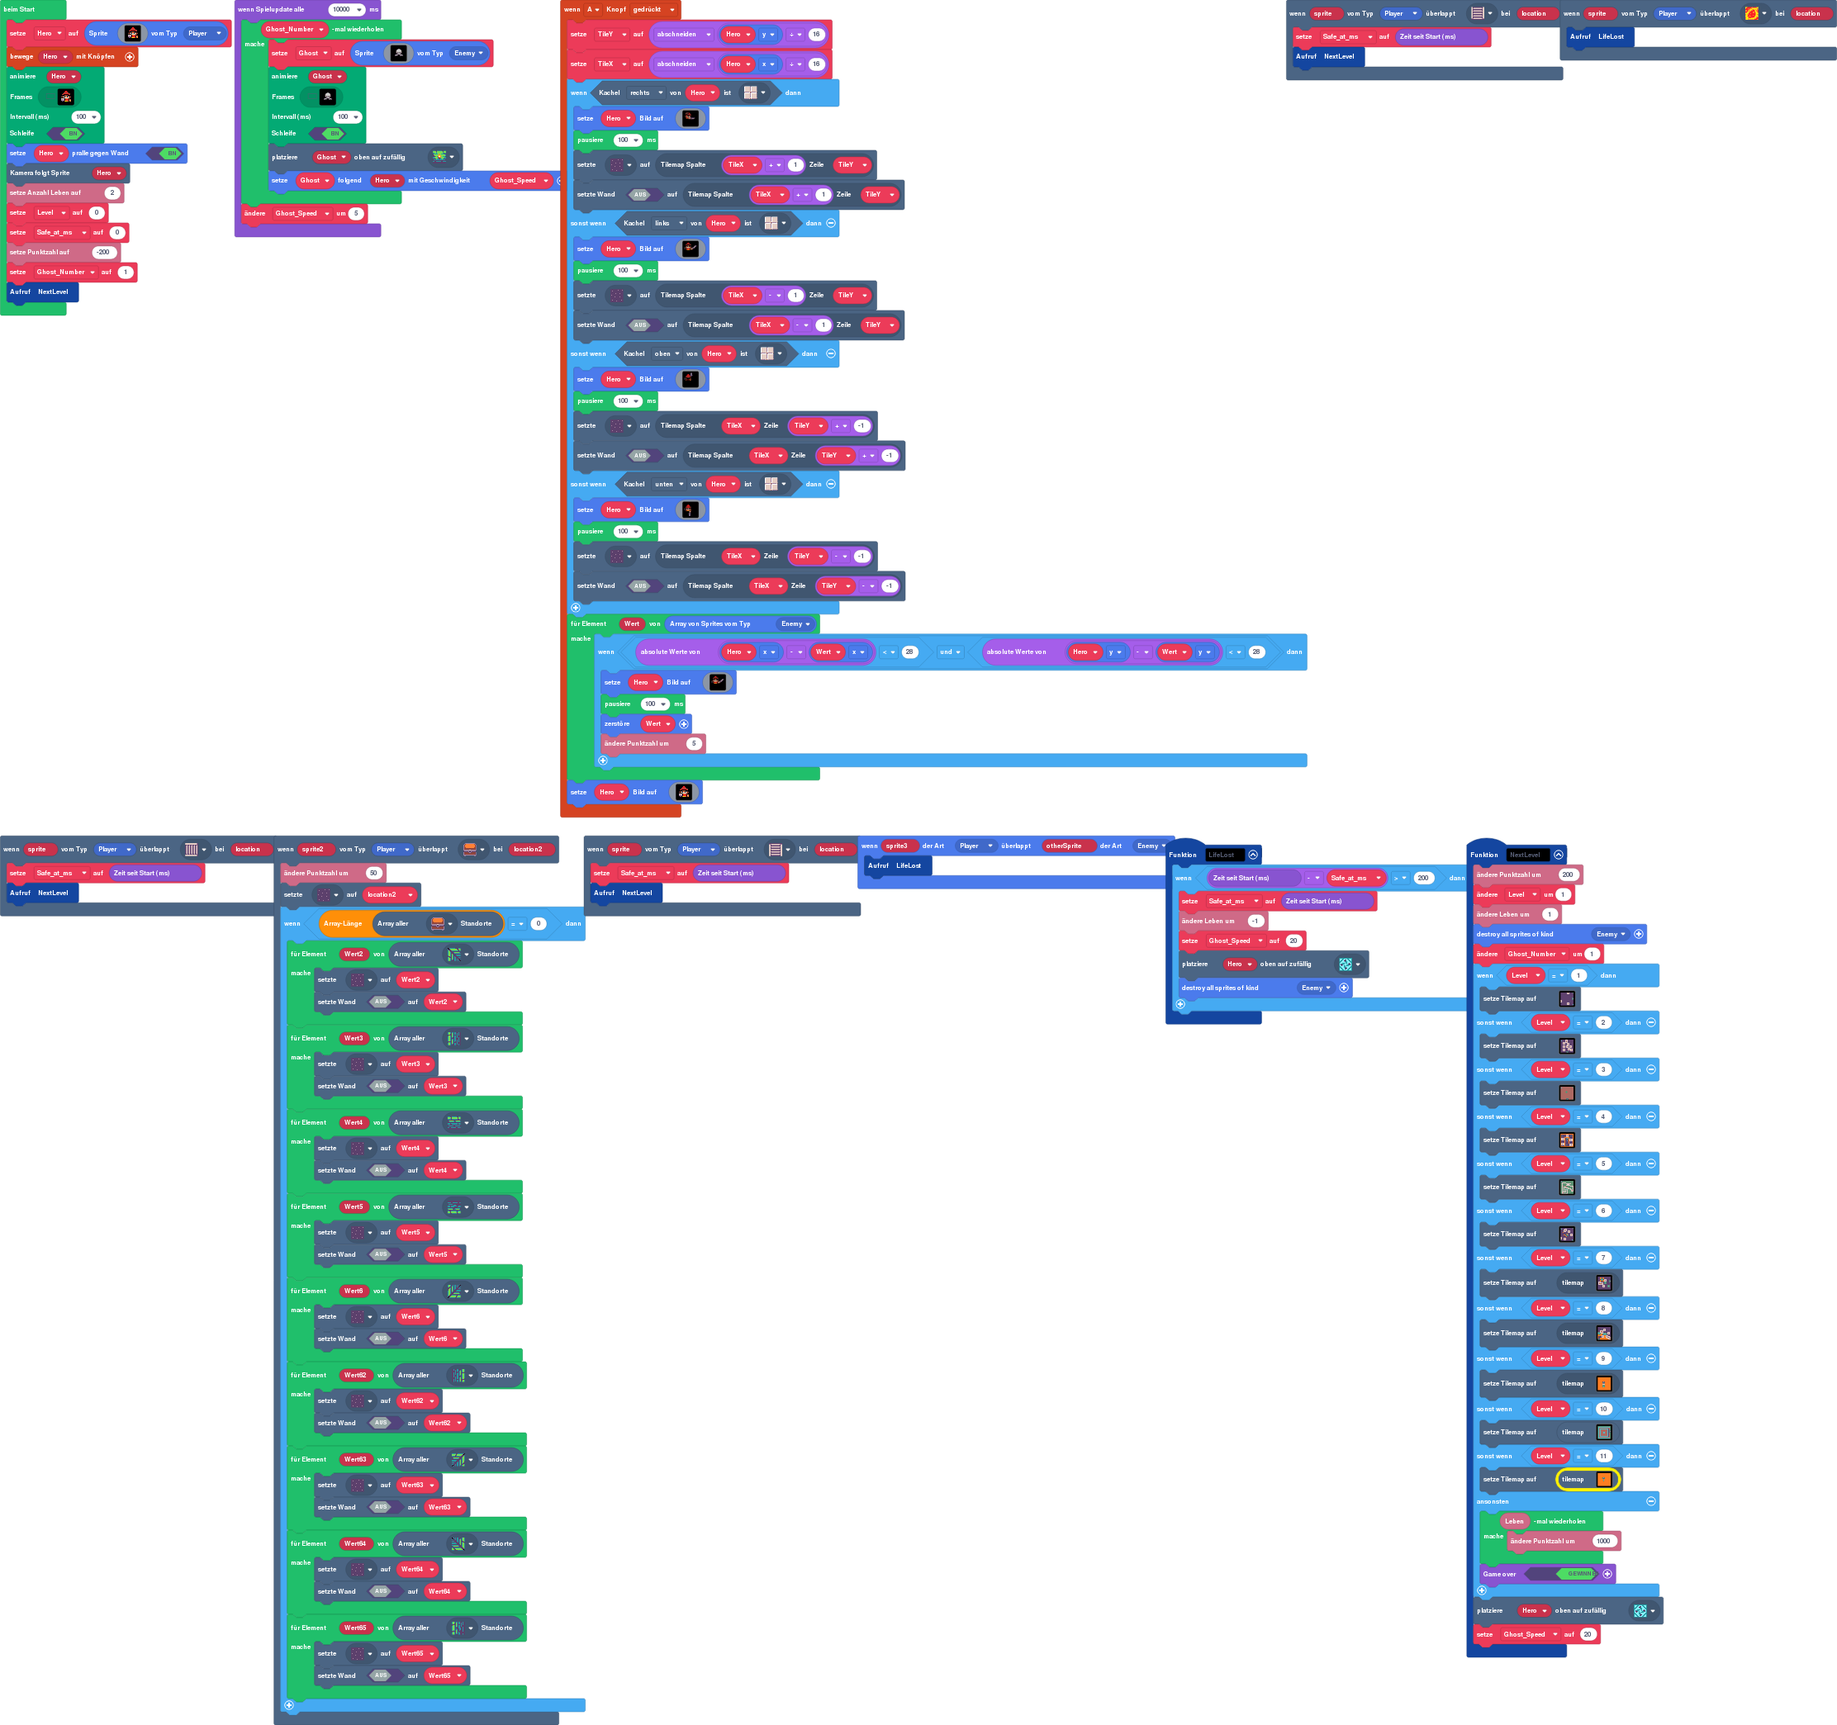
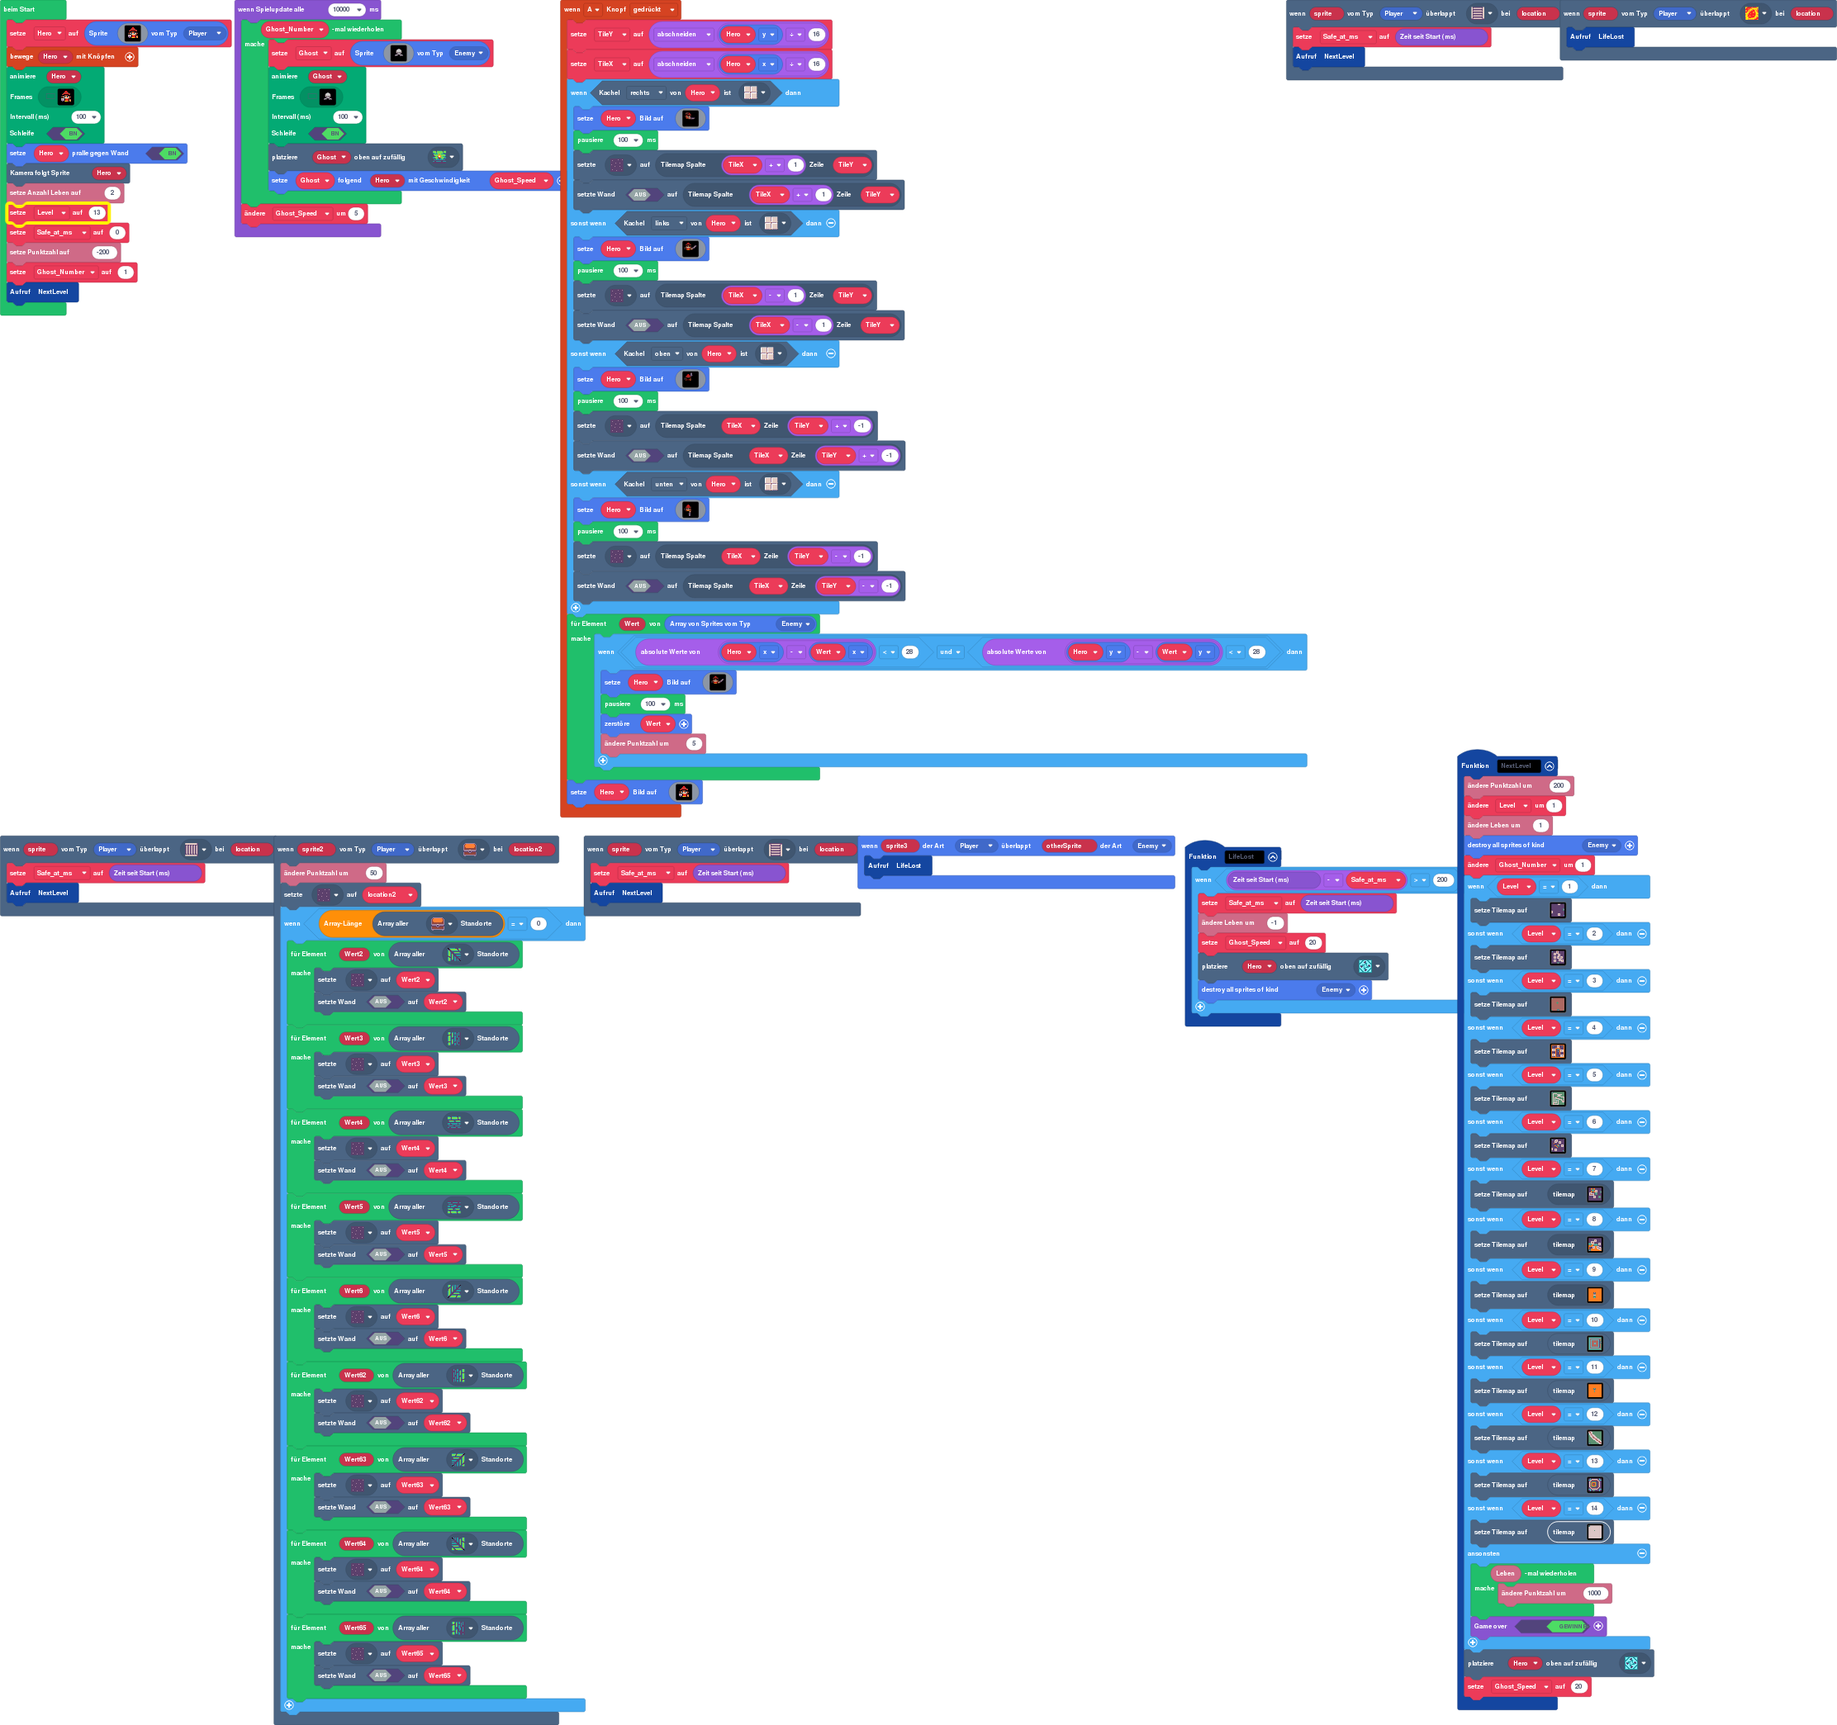
Aktualisiere main.blocks, main.ts, tilemap.g.jres, tilemap.g.ts

Changed region(s): [[0.6205, 0.4356, 0.8997, 0.9957]]

diff --git a/tilemap.g.ts b/tilemap.g.ts
@@ -121,44 +121,6 @@ namespace myTiles {
 . . . . . . . . . . . 2 2 2 2 . 
 . . . . . . . . . . . . . . . . 
 `, [myTiles.transparency16,myTiles.tile1,sprites.dungeon.darkGroundCenter,sprites.dungeon.collectibleInsignia,sprites.dungeon.greenOuterSouth0,sprites.dungeon.greenOuterSouthEast,sprites.dungeon.greenOuterSouthWest,sprites.dungeon.greenOuterWest1,sprites.dungeon.greenOuterEast0,sprites.dungeon.chestClosed,sprites.dungeon.greenOuterNorth2,sprites.dungeon.stairSouth,sprites.dungeon.hazardLava0], TileScale.Sixteen);
-            case "Level9":
-            case "Level9":return tiles.createTilemap(hex`1000100000000000000000000000000000000000000000000000000000000000000000000000000000000000000000000000000000000000000000000000000000000000000000000000000000000000000000000000000000000000000000000000000000000000000000000000000000000000000000000000000000000000000000000000000000000000000000000000000000000000000000000000000000000000000000000000000000000000000000000000000000000000000000000000000000000000000000000000000000000000000000000000000000000000000000000000000000000000000000000000000000000000000000000000000000000000`, img`
-. . . . . . . . . . . . . . . . 
-. . . . . . . . . . . . . . . . 
-. . . . . . . . . . . . . . . . 
-. . . . . . . . . . . . . . . . 
-. . . . . . . . . . . . . . . . 
-. . . . . . . . . . . . . . . . 
-. . . . . . . . . . . . . . . . 
-. . . . . . . . . . . . . . . . 
-. . . . . . . . . . . . . . . . 
-. . . . . . . . . . . . . . . . 
-. . . . . . . . . . . . . . . . 
-. . . . . . . . . . . . . . . . 
-. . . . . . . . . . . . . . . . 
-. . . . . . . . . . . . . . . . 
-. . . . . . . . . . . . . . . . 
-. . . . . . . . . . . . . . . . 
-`, [myTiles.transparency16], TileScale.Sixteen);
-            case "Level10":
-            case "Level10":return tiles.createTilemap(hex`1000100000000000000000000000000000000000000000000000000000000000000000000000000000000000000000000000000000000000000000000000000000000000000000000000000000000000000000000000000000000000000000000000000000000000000000000000000000000000000000000000000000000000000000000000000000000000000000000000000000000000000000000000000000000000000000000000000000000000000000000000000000000000000000000000000000000000000000000000000000000000000000000000000000000000000000000000000000000000000000000000000000000000000000000000000000000000`, img`
-. . . . . . . . . . . . . . . . 
-. . . . . . . . . . . . . . . . 
-. . . . . . . . . . . . . . . . 
-. . . . . . . . . . . . . . . . 
-. . . . . . . . . . . . . . . . 
-. . . . . . . . . . . . . . . . 
-. . . . . . . . . . . . . . . . 
-. . . . . . . . . . . . . . . . 
-. . . . . . . . . . . . . . . . 
-. . . . . . . . . . . . . . . . 
-. . . . . . . . . . . . . . . . 
-. . . . . . . . . . . . . . . . 
-. . . . . . . . . . . . . . . . 
-. . . . . . . . . . . . . . . . 
-. . . . . . . . . . . . . . . . 
-. . . . . . . . . . . . . . . . 
-`, [myTiles.transparency16], TileScale.Sixteen);
             case "Level11":
             case "Level11":return tiles.createTilemap(hex`1000100000000000000000000000000000000000000000000000000000000000000000000000000000000000000000000000000000000000000000000000000000000000000000000000000000000000000000000000000000000000000000000000000000000000000000000000000000000000000000000000000000000000000000000000000000000000000000000000000000000000000000000000000000000000000000000000000000000000000000000000000000000000000000000000000000000000000000000000000000000000000000000000000000000000000000000000000000000000000000000000000000000000000000000000000000000000`, img`
 . . . . . . . . . . . . . . . . 
@@ -311,25 +273,6 @@ namespace myTiles {
 . . . . . . . . . . . . . . . . 
 . . . . . . . . . . . . . . . . 
 `, [myTiles.transparency16], TileScale.Sixteen);
-            case "Level_10":
[1 lines of base64/hex data omitted]
-. . . . . . . . . . . . . . . . 
-. . . . . . . . . . . . . . . . 
-. . . . . . . . . . . . . . . . 
-. . . . . . . . . . . . . . . . 
-. . . . . . . . . . . . . . . . 
-. . . . . . . . . . . . . . 2 2 
-. . . . . . . . . . . . . . 2 . 
-. . . . . . . . . . . . . . 2 2 
-. . . . . . . . . . . . . . . . 
-. . . . . . . . . . . . . . . . 
-. . . . . . . . . . . . . . . . 
-. . . . . . . . . . . . . . . . 
-. . . . . . . . . . . . . . . . 
-. . . . . . . . . . . . . . . . 
-. . . . . . . . . . . . . . . . 
-. . . . . . . . . . . . . . . . 
-`, [myTiles.transparency16,sprites.dungeon.darkGroundCenter,sprites.dungeon.greenOuterNorth2,sprites.dungeon.collectibleInsignia,sprites.dungeon.chestClosed,sprites.dungeon.greenOuterWest0,sprites.dungeon.greenOuterSouthEast,sprites.dungeon.greenOuterNorthWest,sprites.dungeon.greenOuterNorth0,sprites.dungeon.greenOuterSouth1,sprites.dungeon.stairWest], TileScale.Sixteen);
             case "Level17":
             case "Level17":return tiles.createTilemap(hex`1000100000000000000000000000000000000000000000000000000000000000000000000000000000000000000000000000000000000000000000000000000000000000000000000000000000000000000000000000000000000000000000000000000000000000000000000000000000000000000000000000000000000000000000000000000000000000000000000000000000000000000000000000000000000000000000000000000000000000000000000000000000000000000000000000000000000000000000000000000000000000000000000000000000000000000000000000000000000000000000000000000000000000000000000000000000000000`, img`
 . . . . . . . . . . . . . . . . 
@@ -350,7 +293,7 @@ namespace myTiles {
 . . . . . . . . . . . . . . . . 
 `, [myTiles.transparency16], TileScale.Sixteen);
             case "Level_11":
[2 lines of base64/hex data omitted]
 . . . . . . . . . . . . . . . . 
 . . . . . . . . . . . . . . . . 
 . . . . . . . . . . . . . . . . 
@@ -367,7 +310,140 @@ namespace myTiles {
 . . . . . . . . . . . . . . . . 
 . . . . . . . . . . . . . . . . 
 . . . . . . . . . . . . . . . . 
-`, [myTiles.transparency16,sprites.dungeon.hazardLava0,sprites.dungeon.chestClosed,sprites.dungeon.collectibleInsignia,sprites.dungeon.greenOuterNorthWest,sprites.dungeon.greenOuterSouthEast,sprites.dungeon.greenOuterSouth1,sprites.dungeon.greenOuterSouthWest,sprites.dungeon.greenOuterNorthEast,sprites.dungeon.stairSouth,sprites.dungeon.greenOuterNorth2], TileScale.Sixteen);
+`, [myTiles.transparency16,sprites.dungeon.hazardLava0,sprites.dungeon.chestClosed,sprites.dungeon.collectibleInsignia,sprites.dungeon.greenOuterNorthWest,sprites.dungeon.greenOuterSouthEast,sprites.dungeon.greenOuterSouthWest,sprites.dungeon.greenOuterNorthEast,sprites.dungeon.stairSouth,sprites.dungeon.greenOuterNorth2,sprites.dungeon.greenOuterSouth0], TileScale.Sixteen);
+            case "Level18":
+            case "Level18":return tiles.createTilemap(hex`1000100000000000000000000000000000000000000000000000000000000000000000000000000000000000000000000000000000000000000000000000000000000000000000000000000000000000000000000000000000000000000000000000000000000000000000000000000000000000000000000000000000000000000000000000000000000000000000000000000000000000000000000000000000000000000000000000000000000000000000000000000000000000000000000000000000000000000000000000000000000000000000000000000000000000000000000000000000000000000000000000000000000000000000000000000000000000`, img`
+. . . . . . . . . . . . . . . . 
+. . . . . . . . . . . . . . . . 
+. . . . . . . . . . . . . . . . 
+. . . . . . . . . . . . . . . . 
+. . . . . . . . . . . . . . . . 
+. . . . . . . . . . . . . . . . 
+. . . . . . . . . . . . . . . . 
+. . . . . . . . . . . . . . . . 
+. . . . . . . . . . . . . . . . 
+. . . . . . . . . . . . . . . . 
+. . . . . . . . . . . . . . . . 
+. . . . . . . . . . . . . . . . 
+. . . . . . . . . . . . . . . . 
+. . . . . . . . . . . . . . . . 
+. . . . . . . . . . . . . . . . 
+. . . . . . . . . . . . . . . . 
+`, [myTiles.transparency16], TileScale.Sixteen);
+            case "Level_12":
[1 lines of base64/hex data omitted]
+. . 2 2 . . . . . . . . . . . . 
+2 . . 2 2 . . . . . . . . . . . 
+2 2 . 2 2 . . . . . . . . . . . 
+. 2 2 . 2 . . . . . . . . . . . 
+. 2 2 . 2 2 2 . . . . . . . . . 
+. . 2 2 . 2 2 2 . . . . . . . . 
+. . 2 2 2 . 2 2 2 . . . . . . . 
+. . . 2 2 . . 2 2 2 . . . . . . 
+. . . . 2 2 . . 2 2 2 . . . . . 
+. . . . . 2 2 2 . . 2 2 2 . . . 
+. . . . . . 2 2 2 . . 2 2 2 . . 
+. . . . . . . . 2 2 . . 2 2 2 . 
+. . . . . . . . . 2 2 2 . . 2 2 
+. . . . . . . . . . 2 2 2 . . 2 
+2 2 2 . . . . . . . . . 2 2 . . 
+2 . 2 . . . . . . . . . . 2 2 2 
+`, [myTiles.transparency16,sprites.dungeon.chestClosed,sprites.dungeon.floorLight0,sprites.dungeon.greenOuterNorth2,sprites.dungeon.stairSouth,sprites.dungeon.greenOuterNorthEast,sprites.dungeon.greenOuterEast0,sprites.dungeon.greenOuterWest0,sprites.dungeon.greenOuterNorthWest,sprites.dungeon.greenOuterNorth0,sprites.dungeon.collectibleInsignia], TileScale.Sixteen);
+            case "Level20":
+            case "Level20":return tiles.createTilemap(hex`1000100000000000000000000000000000000000000000000000000000000000000000000000000000000000000000000000000000000000000000000000000000000000000000000000000000000000000000000000000000000000000000000000000000000000000000000000000000000000000000000000000000000000000000000000000000000000000000000000000000000000000000000000000000000000000000000000000000000000000000000000000000000000000000000000000000000000000000000000000000000000000000000000000000000000000000000000000000000000000000000000000000000000000000000000000000000000`, img`
+. . . . . . . . . . . . . . . . 
+. . . . . . . . . . . . . . . . 
+. . . . . . . . . . . . . . . . 
+. . . . . . . . . . . . . . . . 
+. . . . . . . . . . . . . . . . 
+. . . . . . . . . . . . . . . . 
+. . . . . . . . . . . . . . . . 
+. . . . . . . . . . . . . . . . 
+. . . . . . . . . . . . . . . . 
+. . . . . . . . . . . . . . . . 
+. . . . . . . . . . . . . . . . 
+. . . . . . . . . . . . . . . . 
+. . . . . . . . . . . . . . . . 
+. . . . . . . . . . . . . . . . 
+. . . . . . . . . . . . . . . . 
+. . . . . . . . . . . . . . . . 
+`, [myTiles.transparency16], TileScale.Sixteen);
+            case "Level_13":
[1 lines of base64/hex data omitted]
+. . . . . . . . . . . . . . . . 
+. . . . 2 2 2 2 2 2 2 . . . . . 
+. . . 2 . . . . . . . 2 . . . . 
+. . 2 . . . . . . . . . 2 . . . 
+. 2 . . . . . . . . . . . 2 . . 
+. 2 . . . . . . . . . . . 2 . . 
+. 2 . . . . . . . . . . . 2 . . 
+. 2 . . . . . . . . . . . 2 . . 
+. 2 . . . . . . . . . . . 2 . . 
+. 2 . . . . . . . . . . . 2 . . 
+. 2 . . . . . . . . . . . 2 . . 
+. . 2 . . . . . . . . . 2 . . . 
+. . . 2 . . . . . . . 2 . . . . 
+. . . . 2 2 2 2 2 2 2 . . . . . 
+. . . . . 2 2 2 . . . . . . . . 
+. . . . . 2 . 2 . . . . . . . . 
+`, [myTiles.transparency16,sprites.dungeon.darkGroundCenter,sprites.dungeon.collectibleInsignia,sprites.dungeon.chestClosed,sprites.dungeon.floorLight0,sprites.dungeon.greenOuterNorth2,sprites.dungeon.hazardLava0,sprites.dungeon.greenOuterNorthWest,sprites.dungeon.greenOuterNorth0,sprites.dungeon.greenOuterNorthEast,sprites.dungeon.greenOuterEast0,sprites.dungeon.greenOuterWest0,sprites.dungeon.stairSouth], TileScale.Sixteen);
+            case "Level_10":
[1 lines of base64/hex data omitted]
+. . . . . . . . . . . . . . . . 
+. . . . . . . . . . . . . . . . 
+. . . . . . . . . . . . . . . . 
+. . . . . . . . . . . . . . . . 
+. . . . . . . . . . . . . . . . 
+. . . . . . . . . . . . . . 2 2 
+. . . . . . . . . . . . . . 2 . 
+. . . . . . . . . . . . . . 2 2 
+. . . . . . . . . . . . . . . . 
+. . . . . . . . . . . . . . . . 
+. . . . . . . . . . . . . . . . 
+. . . . . . . . . . . . . . . . 
+. . . . . . . . . . . . . . . . 
+. . . . . . . . . . . . . . . . 
+. . . . . . . . . . . . . . . . 
+. . . . . . . . . . . . . . . . 
+`, [myTiles.transparency16,sprites.dungeon.darkGroundCenter,sprites.dungeon.greenOuterNorth2,sprites.dungeon.collectibleInsignia,sprites.dungeon.chestClosed,sprites.dungeon.greenOuterWest0,sprites.dungeon.greenOuterSouthEast,sprites.dungeon.greenOuterNorthWest,sprites.dungeon.greenOuterNorth0,sprites.dungeon.stairWest,sprites.dungeon.greenOuterSouth0], TileScale.Sixteen);
+            case "Level21":
+            case "Level21":return tiles.createTilemap(hex`1000100000000000000000000000000000000000000000000000000000000000000000000000000000000000000000000000000000000000000000000000000000000000000000000000000000000000000000000000000000000000000000000000000000000000000000000000000000000000000000000000000000000000000000000000000000000000000000000000000000000000000000000000000000000000000000000000000000000000000000000000000000000000000000000000000000000000000000000000000000000000000000000000000000000000000000000000000000000000000000000000000000000000000000000000000000000000`, img`
+. . . . . . . . . . . . . . . . 
+. . . . . . . . . . . . . . . . 
+. . . . . . . . . . . . . . . . 
+. . . . . . . . . . . . . . . . 
+. . . . . . . . . . . . . . . . 
+. . . . . . . . . . . . . . . . 
+. . . . . . . . . . . . . . . . 
+. . . . . . . . . . . . . . . . 
+. . . . . . . . . . . . . . . . 
+. . . . . . . . . . . . . . . . 
+. . . . . . . . . . . . . . . . 
+. . . . . . . . . . . . . . . . 
+. . . . . . . . . . . . . . . . 
+. . . . . . . . . . . . . . . . 
+. . . . . . . . . . . . . . . . 
+. . . . . . . . . . . . . . . . 
+`, [myTiles.transparency16], TileScale.Sixteen);
+            case "Level_14":
+            case "Level19":return tiles.createTilemap(hex`1000100006030101010101010101010101010107080401010101010101010101010101010101010101010101010101010101010101010101010101010101010101010101010101010101010101010101010101010101010101010101010101010101010101010101010101050101010101010101010101010101010101010101010101010101010101010101010101010101010101010101010101010101010101010101010101010101010101010101010101010101010101010101010101010101010101010101010101010101010101010101010101010101010101010101010101010101010101010101010101010101010101010101010101010101010101010102`, img`
+. 2 2 2 2 2 2 2 2 2 2 2 2 2 2 . 
+2 2 2 2 2 2 2 2 2 2 2 2 2 2 2 2 
+2 2 2 2 2 2 2 2 2 2 2 2 2 2 2 2 
+2 2 2 2 2 2 2 2 2 2 2 2 2 2 2 2 
+2 2 2 2 2 2 2 2 2 2 2 2 2 2 2 2 
+2 2 2 2 2 2 2 2 2 2 2 2 2 2 2 2 
+2 2 2 2 2 2 2 . 2 2 2 2 2 2 2 2 
+2 2 2 2 2 2 2 2 2 2 2 2 2 2 2 2 
+2 2 2 2 2 2 2 2 2 2 2 2 2 2 2 2 
+2 2 2 2 2 2 2 2 2 2 2 2 2 2 2 2 
+2 2 2 2 2 2 2 2 2 2 2 2 2 2 2 2 
+2 2 2 2 2 2 2 2 2 2 2 2 2 2 2 2 
+2 2 2 2 2 2 2 2 2 2 2 2 2 2 2 2 
+2 2 2 2 2 2 2 2 2 2 2 2 2 2 2 2 
+2 2 2 2 2 2 2 2 2 2 2 2 2 2 2 2 
+2 2 2 2 2 2 2 2 2 2 2 2 2 2 2 . 
+`, [myTiles.transparency16,sprites.dungeon.floorLight0,sprites.dungeon.collectibleInsignia,sprites.dungeon.greenOuterEast0,sprites.dungeon.greenOuterSouthWest,sprites.dungeon.greenOuterNorth2,sprites.dungeon.stairNorth,sprites.dungeon.chestClosed,sprites.dungeon.greenOuterSouth0], TileScale.Sixteen);
         }
         return null;
     })

diff --git a/main.ts b/main.ts
@@ -125,6 +125,12 @@ function NextLevel () {
         tiles.setCurrentTilemap(tilemap`Level_10`)
     } else if (Level == 11) {
         tiles.setCurrentTilemap(tilemap`Level_11`)
+    } else if (Level == 12) {
+        tiles.setCurrentTilemap(tilemap`Level_12`)
+    } else if (Level == 13) {
+        tiles.setCurrentTilemap(tilemap`Level_13`)
+    } else if (Level == 14) {
+        tiles.setCurrentTilemap(tilemap`Level_14`)
     } else {
         for (let index = 0; index < info.life(); index++) {
             info.changeScoreBy(1000)
@@ -224,7 +230,7 @@ true
 Hero.setBounceOnWall(true)
 scene.cameraFollowSprite(Hero)
 info.setLife(2)
-Level = 0
+Level = 13
 Safe_at_ms = 0
 info.setScore(-200)
 let Ghost_Number = 1
